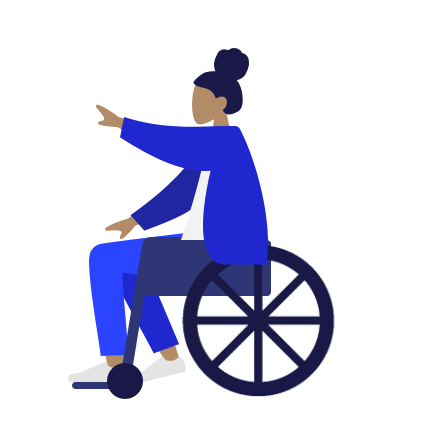
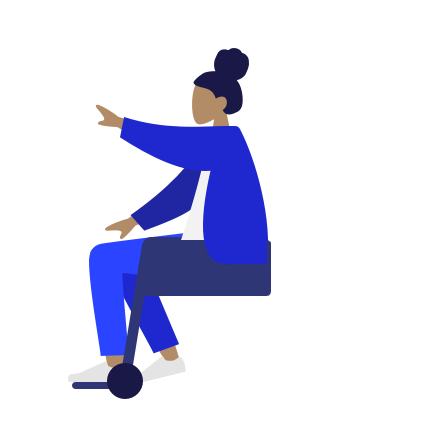
html1

Changed region(s): [[0.4136, 0.5614, 0.7682, 0.9159]]

diff --git a/Beta/1.html b/Beta/1.html
@@ -6,27 +6,32 @@
     <link href="https://fonts.googleapis.com/css2?family=Roboto:wght@500&display=swap" rel="stylesheet">
     <title>Я разрешаю дрочить</title>
     <meta name="viewport" content="width=device-width, initial-scale=1">
-    <link rel="stylesheet" type="text/css" href="CSS.css">
 
+    <script src="JS_disabled.js"></script>
+    <img id="dis" src="disabled.png" style=" margin-left:70%; margin-top: 4.1%;" />
+    <style>
+        #dis {
+            position: fixed;
+            height: 450;
+        }
     </style>
-    <div style="float:left; margin-left:100%; margin-top: 20%; ">
-        <img id="dis" class="diss" src="disabled.png" />
-        <style>
-            #dis {
-                position: absolute;
-                height: 400;
-            }
-        </style>
-    </div>
+
+    <script src="JS_wheel.js"></script>
+    <img id="wl" src="wheel.png" style=" margin-left:70%; margin-top: 4.1%;" />
+    <style>
+        #wl {
+            position: fixed;
+            height: 450;
+        }
+    </style>
 
 </head>
 
 <body>
-    <script src="JS.js"></script>
 
-    <div class="back">
-        <h1>Я разрешаю <br> дрочить</h1>
-    </div>
+    <link rel=" stylesheet " type="text/css " href="CSS.css ">
+    <h1>Все <br> возможно</h1>
+
 </body>
 
 </html>

diff --git a/Beta/CSS.css b/Beta/CSS.css
@@ -1,10 +1,13 @@
 body {
-    background: linear-gradient(111.3deg, #FB4646 8.12%, rgba(0, 0, 0, 0) 158.42%);
+    background: linear-gradient(120deg, rgba(98, 245, 208, 0.863), rgba(0, 0, 0, 0.842));
 }
 
 h1 {
     font-family: 'Roboto', sans-serif;
-    font-size: 100px;
+    font-size: 223px;
     font-weight: 600;
-    color: #ffffff;
+    color: #000000;
+    margin-left: 3%;
+    margin-top: 8%;
+    position: fixed;
 }

diff --git a/Beta/JS_wheel.js b/Beta/JS_wheel.js
@@ -1,12 +1,15 @@
-window.onload = function() {
+function wheel() {
     let start = Date.now();
 
     let timer = setInterval(function() {
         let timePassed = Date.now() - start;
 
-        dis.style.right = timePassed / 5 + 'px';
+        wl.style.right = timePassed / 5 + 'px';
 
         if (timePassed > 1500) clearInterval(timer);
 
-    }, 3);
+
+    }, 30);
 }
+
+window.onload = wheel();

diff --git a/Beta/JS_disabled.js b/Beta/JS_disabled.js
@@ -1,0 +1,15 @@
+function disabled() {
+    let start = Date.now();
+
+    let timer = setInterval(function() {
+        let timePassed = Date.now() - start;
+
+        dis.style.right = timePassed / 5 + 'px';
+
+        if (timePassed > 1500) clearInterval(timer);
+
+
+    }, 30);
+}
+
+window.onload = disabled();
